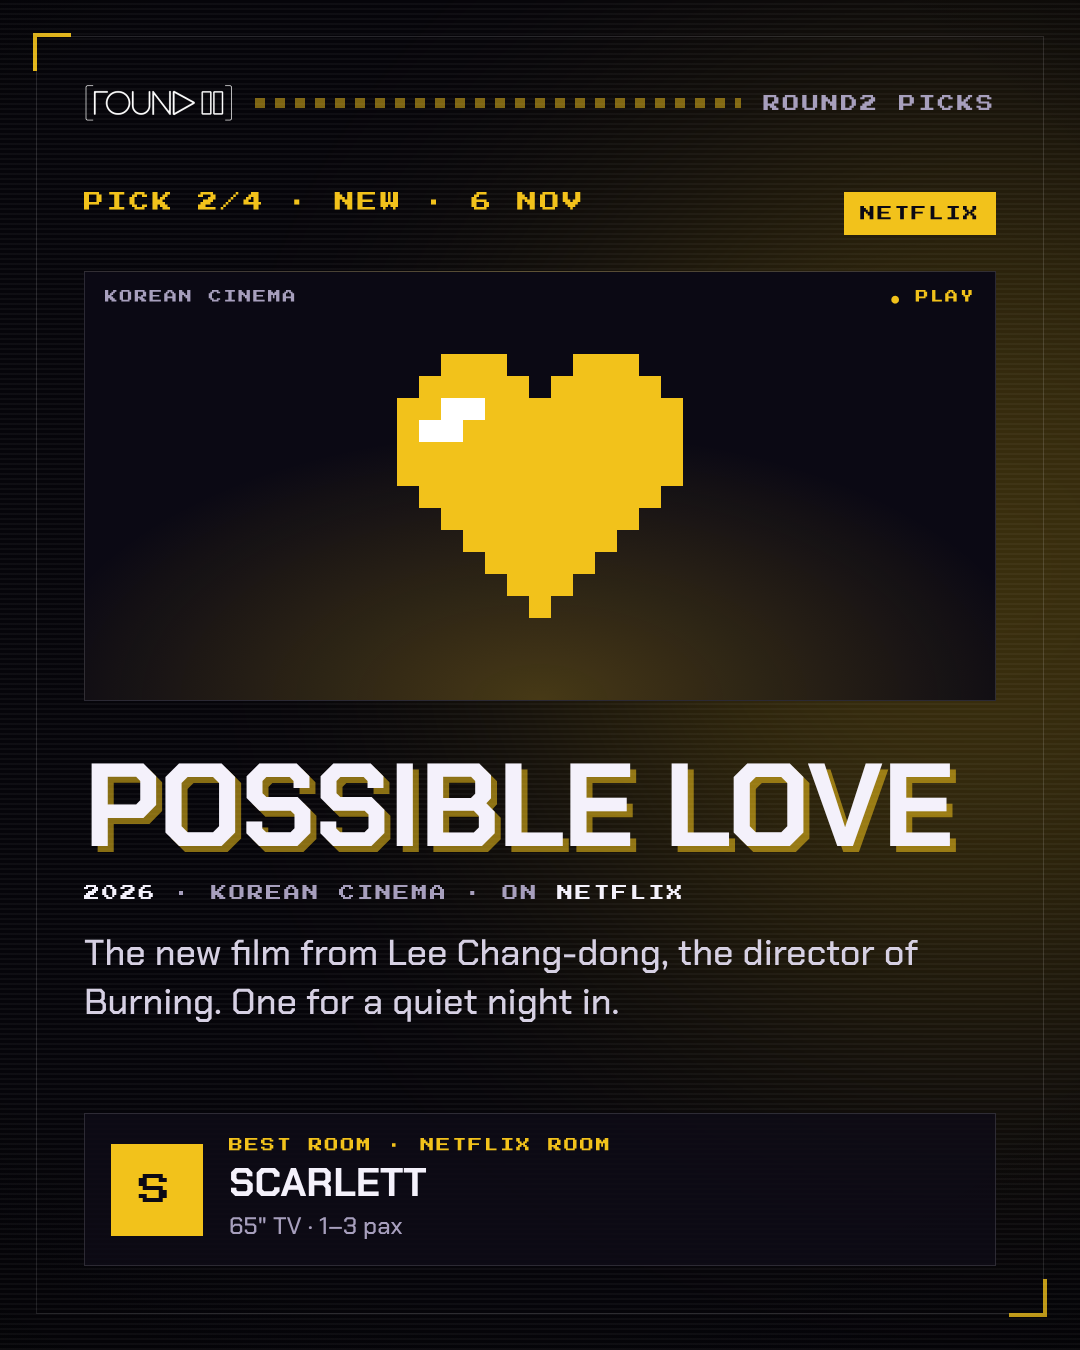
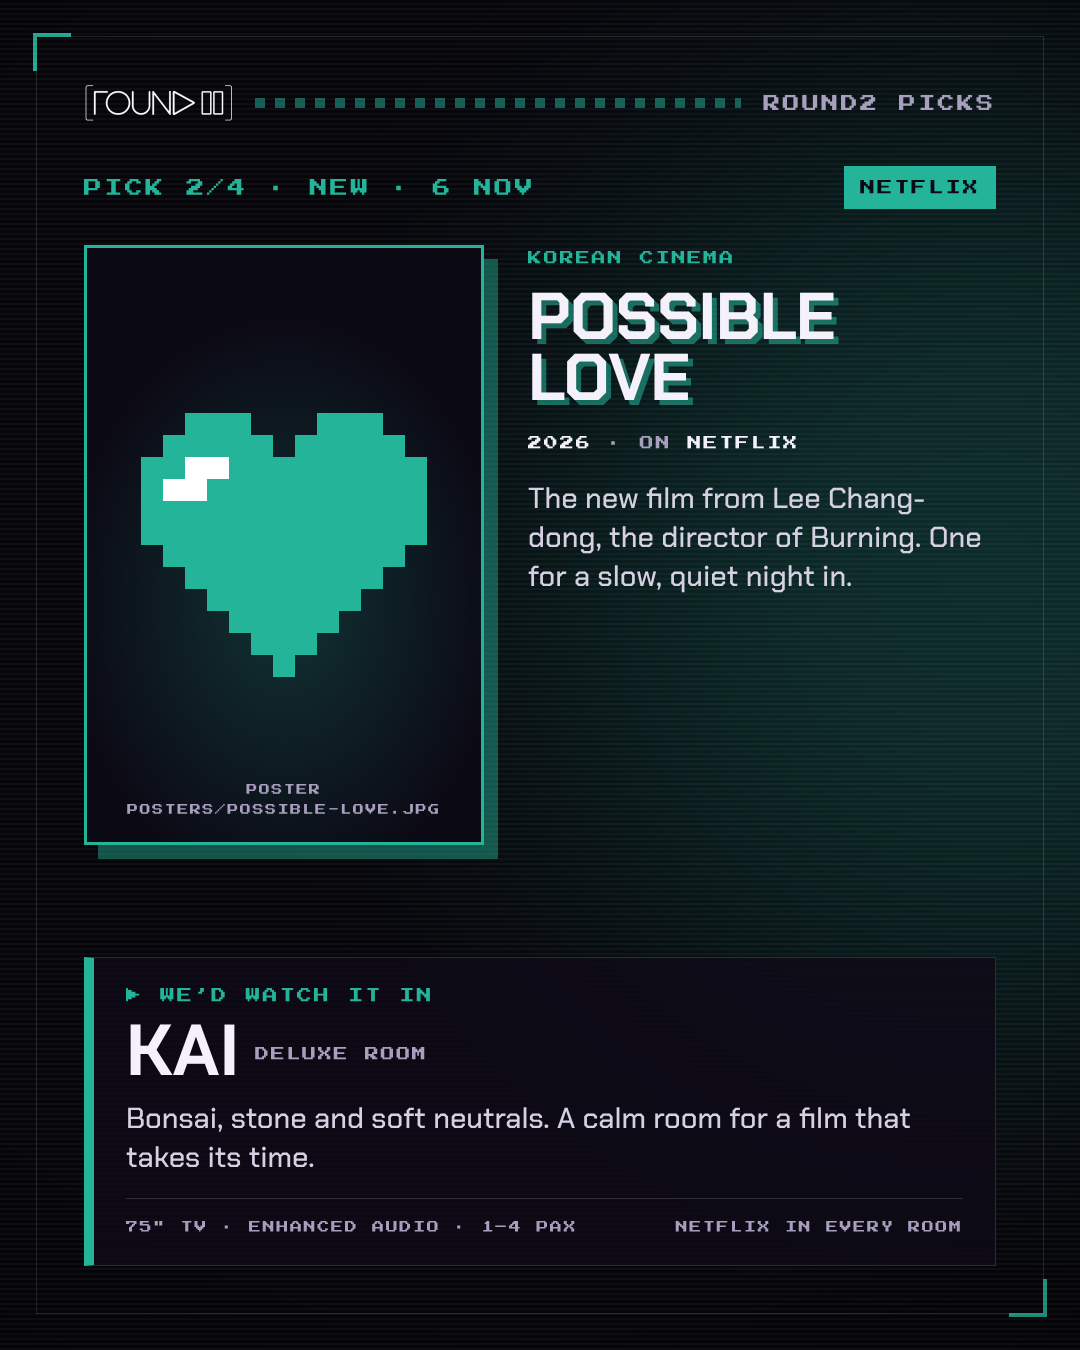
Round2 Picks: poster slots, 'We'd watch it in' room-vibe panel, rooms matched by vibe
Claude-Session: https://claude.ai/code/session_01PDkwSCLDYKchcH27nujJvW

diff --git a/marketing/ig-movie-picks/index.html b/marketing/ig-movie-picks/index.html
@@ -64,26 +64,31 @@ body.render .blink{animation:none}
 .cv-foot{margin-top:30px;display:flex;justify-content:space-between;font-size:15px;color:var(--mute)}
 
 /* ---------- pick ---------- */
-.pk-head{margin-top:70px;display:flex;justify-content:space-between;align-items:flex-start}
-.pk-num{font-size:20px;color:var(--c)}
+.bgimg{position:absolute;inset:-60px;width:calc(100% + 120px);height:calc(100% + 120px);object-fit:cover;filter:blur(40px) saturate(1.2);opacity:.28;z-index:0}
+.pk-head{margin-top:44px;display:flex;justify-content:space-between;align-items:center}
+.pk-num{font-size:18px;color:var(--c)}
 .badge{font-size:15px;padding:14px 16px;background:var(--c);color:var(--cink)}
-.screen{position:relative;margin-top:36px;height:430px;border:1px solid var(--line);
-  background:radial-gradient(80% 90% at 50% 100%,color-mix(in srgb,var(--c) 26%,transparent),transparent 70%),#0b0914;
+.hero{margin-top:36px;display:flex;gap:44px;align-items:flex-start}
+.poster{position:relative;flex:none;width:400px;height:600px;border:3px solid var(--c);
+  box-shadow:14px 14px 0 color-mix(in srgb,var(--c) 45%,transparent);
+  background:radial-gradient(80% 70% at 50% 60%,color-mix(in srgb,var(--c) 24%,transparent),transparent 70%),#0b0914;
   display:flex;align-items:center;justify-content:center;overflow:hidden}
-.screen .sprite{display:grid;gap:0;image-rendering:pixelated}
-.screen .sprite i{display:block;width:22px;height:22px}
-.screen .tag{position:absolute;left:20px;top:18px;font-size:13px;color:var(--mute)}
-.screen .rec{position:absolute;right:20px;top:18px;font-size:13px;color:var(--c)}
-.pk-title{margin:52px 0 0;font-weight:700;font-size:118px;line-height:.9;text-transform:uppercase;letter-spacing:-.01em;
-  text-shadow:6px 6px 0 color-mix(in srgb,var(--c) 55%,transparent)}
-.pk-meta{margin-top:26px;font-size:16px;color:var(--mute);display:flex;gap:18px;flex-wrap:wrap}
+.poster img{position:absolute;inset:0;width:100%;height:100%;object-fit:cover;z-index:2}
+.poster .ph{position:absolute;left:0;right:0;bottom:22px;text-align:center;font-size:11px;color:var(--mute);line-height:1.8}
+.sprite{display:grid;gap:0}
+.side{flex:1;min-width:0;padding-top:6px}
+.genre{font-size:14px;color:var(--c)}
+.pk-title{margin:22px 0 0;font-weight:700;font-size:var(--ts,88px);line-height:.92;text-transform:uppercase;letter-spacing:-.01em;
+  text-shadow:5px 5px 0 color-mix(in srgb,var(--c) 55%,transparent);overflow-wrap:anywhere}
+.pk-meta{margin-top:22px;font-size:14px;color:var(--mute);line-height:1.9}
 .pk-meta b{color:var(--ink);font-weight:400}
-.pk-why{margin-top:28px;font-size:36px;line-height:1.35;color:var(--soft);max-width:880px}
-.room{margin-top:auto;display:flex;align-items:center;gap:26px;padding:24px 26px;border:1px solid var(--line);background:rgba(14,11,23,.8)}
-.room .chip{width:92px;height:92px;flex:none;background:var(--c);color:var(--cink);display:flex;align-items:center;justify-content:center;font-size:32px}
-.room .l{font-size:14px;color:var(--c)}
-.room .nm{margin-top:10px;font-weight:700;font-size:40px;text-transform:uppercase;line-height:1}
-.room .sp{margin-top:8px;font-size:24px;color:var(--mute)}
+.pk-why{margin-top:22px;font-size:29px;line-height:1.35;color:var(--soft)}
+.room{margin-top:auto;position:relative;padding:30px 32px 28px;border:1px solid var(--line);border-left:10px solid var(--c);background:rgba(14,11,23,.86)}
+.room .l{font-size:15px;color:var(--c)}
+.room .nm{margin-top:14px;font-weight:700;font-size:72px;text-transform:uppercase;line-height:.95}
+.room .nm small{font-family:'Press Start 2P',monospace;font-size:14px;letter-spacing:.12em;font-weight:400;color:var(--mute);margin-left:16px;vertical-align:14px}
+.room .vb{margin-top:14px;font-size:29px;line-height:1.35;color:var(--soft)}
+.room .ft{margin-top:20px;padding-top:18px;border-top:1px solid var(--line);display:flex;justify-content:space-between;gap:20px;font-size:12px;color:var(--mute);line-height:1.7}
 
 /* ---------- end ---------- */
 .en-k{margin-top:120px;font-size:24px;color:var(--accent)}
@@ -106,19 +111,25 @@ body.render .blink{animation:none}
 const ISSUE = {
   no: '01',
   dates: '6–19 Nov',
+  // poster: drop the official poster (portrait, ~2:3) into posters/ with this file name. Missing → 8-bit placeholder.
+  // vibe:   why this room suits this film. It's a suggestion – the footer reminds guests it plays in other rooms too.
   picks: [
     { title: 'Heartland', service: 'Netflix', when: 'New · 13 Nov', genre: 'Thriller', year: '2026',
       why: 'A Netflix original thriller led by Jessica Chastain. Lights off, phones face down.',
-      room: 'Vale', sprite: 'house' },
+      room: 'Scarlett', poster: 'posters/heartland.jpg', sprite: 'house',
+      vibe: 'Dark, moody and lit only by starlight. The perfect room to watch a thriller through your fingers.' },
     { title: 'Possible Love', service: 'Netflix', when: 'New · 6 Nov', genre: 'Korean cinema', year: '2026',
-      why: 'The new film from Lee Chang-dong, the director of Burning. One for a quiet night in.',
-      room: 'Scarlett', sprite: 'heart' },
+      why: 'The new film from Lee Chang-dong, the director of Burning. One for a slow, quiet night in.',
+      room: 'Kai', poster: 'posters/possible-love.jpg', sprite: 'heart',
+      vibe: 'Bonsai, stone and soft neutrals. A calm room for a film that takes its time.' },
     { title: 'Madden', service: 'Prime Video', when: 'New · 18 Nov', genre: 'Sports biopic', year: '2026',
       why: 'Nicolas Cage plays football legend John Madden. Bring the squad and pick sides.',
-      room: 'Kai', sprite: 'ball' },
+      room: 'Maximillion', poster: 'posters/madden.jpg', sprite: 'ball',
+      vibe: 'Our biggest screen, home theatre sound and a racing sim for half-time. Built for game day.' },
     { title: 'Dune', service: 'HBO Max', when: 'Streaming now', genre: 'Sci-fi epic', year: '2021',
-      why: 'Villeneuve’s desert epic was made for a huge screen and a lot of bass. We have both.',
-      room: 'Maximillion', sprite: 'dune' },
+      why: 'Villeneuve’s desert epic was made for a big screen and a lot of bass.',
+      room: 'Atlas', poster: 'posters/dune.jpg', sprite: 'dune',
+      vibe: 'Warm whites and Greek-inspired details. A timeless room for an epic that feels ancient.' },
   ],
 };
 /* ======================================================================== */
@@ -133,7 +144,7 @@ const ROOMS = {
   Maximillion: { tier:'VIP room',     c:'#E0402F', ink:'#ffffff', spec:'85" TV · home theatre audio · 1–6 pax' },
 };
 
-// 8-bit sprites drawn on our own (no posters or studio artwork). '.' = empty, letters = palette.
+// 8-bit placeholders shown until a poster file is added. '.' = empty, letters = palette.
 const SPRITES = {
   heart: { pal:{a:'C',b:'#ffffff'}, rows:[
     '..aaa...aaa..','.aaaaa.aaaaa.','aabbaaaaaaaaa','abbaaaaaaaaaa','aaaaaaaaaaaaa','aaaaaaaaaaaaa',
@@ -165,8 +176,8 @@ function sprite(name, color){
   }
   return `<div class="sprite" style="grid-template-columns:repeat(${w},${px}px)">${cells}</div>`;
 }
-const frame = (c, ink, inner, glowPos='left:-300px;top:-260px') =>
-  `<section class="slide" style="--c:${c};--cink:${ink}"><div class="glow" style="${glowPos}"></div>
+const frame = (c, ink, inner, glowPos='left:-300px;top:-260px', bg='') =>
+  `<section class="slide" style="--c:${c};--cink:${ink}">${bg}<div class="glow" style="${glowPos}"></div>
    <div class="frame"></div><div class="vign"></div><div class="scan"></div><div class="in">${inner}</div></section>`;
 const topBar = label => `<div class="top px"><img src="${LOGO}" alt="Round2"><div class="dash"></div><span>${esc(label)}</span></div>`;
 
@@ -177,22 +188,36 @@ function cover(){
   return frame('#F2C21B', '#0b0914', `${topBar('Issue ' + ISSUE.no)}
     <div class="cv-kicker px">Round2 Picks · ${esc(ISSUE.dates)}</div>
     <h1 class="cv-title">Now<span>Playing</span></h1>
-    <div class="cv-sub">${ISSUE.picks.length} films we’d queue up this fortnight — and the room to watch each one in.</div>
+    <div class="cv-sub">${ISSUE.picks.length} films we’d queue up this fortnight, each matched with the room that fits its vibe.</div>
     <div class="select"><div class="hd px"><span>Movie select</span><span class="blink">Swipe ▶</span></div>${rows}</div>
     <div class="cv-foot px"><span>Haji Lane · SG</span><span>round2.sg</span></div>`, 'right:-380px;top:-300px');
 }
 
 function pick(p, i){
   const r = ROOMS[p.room], n = ISSUE.picks.length;
+  const hbo = /hbo/i.test(p.service);
+  const note = hbo ? 'HBO Max in all Deluxe &amp; VIP rooms' : `${esc(p.service)} in every room`;
+  const ts = p.title.length > 11 ? 66 : p.title.length > 7 ? 78 : 96;
+  const img = p.poster ? `<img src="${esc(p.poster)}" alt="" onerror="this.remove()">` : '';
+  const bg  = p.poster ? `<img class="bgimg" src="${esc(p.poster)}" alt="" onerror="this.remove()">` : '';
   return frame(r.c, r.ink, `${topBar('Round2 Picks')}
     <div class="pk-head"><div class="pk-num px">Pick ${i+1}/${n} · ${esc(p.when)}</div><div class="badge px">${esc(p.service)}</div></div>
-    <div class="screen"><span class="tag px">${esc(p.genre)}</span><span class="rec px"><span class="blink">●</span> Play</span>${sprite(p.sprite, r.c)}</div>
-    <h2 class="pk-title">${esc(p.title)}</h2>
-    <div class="pk-meta px"><span><b>${esc(p.year)}</b></span><span>·</span><span>${esc(p.genre)}</span><span>·</span><span>on <b>${esc(p.service)}</b></span></div>
-    <div class="pk-why">${esc(p.why)}</div>
-    <div class="room"><div class="chip px">${esc(p.room[0])}</div><div>
-      <div class="l px">Best room · ${esc(r.tier)}</div><div class="nm">${esc(p.room)}</div><div class="sp">${esc(r.spec)}</div></div></div>`,
-    i % 2 ? 'right:-360px;top:120px' : 'left:-360px;top:120px');
+    <div class="hero">
+      <div class="poster">${sprite(p.sprite, r.c)}<div class="ph px">Poster<br>${esc(p.poster || '')}</div>${img}</div>
+      <div class="side">
+        <div class="genre px">${esc(p.genre)}</div>
+        <h2 class="pk-title" style="--ts:${ts}px">${esc(p.title)}</h2>
+        <div class="pk-meta px"><b>${esc(p.year)}</b> · on <b>${esc(p.service)}</b></div>
+        <div class="pk-why">${esc(p.why)}</div>
+      </div>
+    </div>
+    <div class="room">
+      <div class="l px">▶ We’d watch it in</div>
+      <div class="nm">${esc(p.room)}<small>${esc(r.tier)}</small></div>
+      <div class="vb">${esc(p.vibe)}</div>
+      <div class="ft px"><span>${esc(r.spec)}</span><span>${note}</span></div>
+    </div>`,
+    i % 2 ? 'right:-360px;top:120px' : 'left:-360px;top:120px', bg);
 }
 
 function end(){

diff --git a/marketing/ig-movie-picks/README.md b/marketing/ig-movie-picks/README.md
@@ -7,11 +7,15 @@ Marketing & design only. **Nothing here is used by the live site** – it lives 
 - Look: same tokens as www.round2.sg – background `#06050a`, text `#f4f1fb`/`#d6d0e3`/`#a79fbd`, accent `#F2C21B`,
   Press Start 2P (labels) + Chakra Petch (headings/body), game-menu wording (MOVIE SELECT, INSERT COIN, PRESS START).
 - Each pick takes the colour of the room we recommend for it (room colours copied from the site's room list).
-- No posters or studio art (copyright) – each pick gets an 8-bit sprite drawn in `SPRITES` (heart, house, ball, dune).
-  Add new ones there: rows of letters, `C` = the room colour.
+- Each pick slide has a poster slot. Put the poster (portrait, ~2:3, e.g. 800×1200) in `posters/` with the file name set
+  in `ISSUE` (`posters/heartland.jpg` …). It also becomes the blurred background. No file → an 8-bit placeholder
+  (`SPRITES`) shows, so the slide never breaks. Use official key art the studio/streamer releases for promotion.
+- Room panel = "We'd watch it in <room>" + `vibe` (why the room suits the film). The footer always says the service
+  plays in other rooms too, so it reads as a suggestion, not a restriction.
 
 ## New issue (every 2 weeks)
-1. Edit `ISSUE` at the top of the script in `index.html` (issue no., dates, 3–5 picks: title, service, when, genre, year, why, room, sprite).
+1. Edit `ISSUE` at the top of the script in `index.html` (issue no., dates, 3–5 picks: title, service, when, genre, year, why, room, vibe, poster, sprite),
+   and drop the posters into `posters/`.
 2. `python3 render.py` → PNGs in `out/`. Open `index.html` in a browser to preview.
 3. Check every title is actually on the **Singapore** Netflix / Prime Video / HBO Max apps that day (release lists online are US).
 
@@ -22,5 +26,5 @@ Marketing & design only. **Nothing here is used by the live site** – it lives 
 - Blurbs in our own words; no quotes from reviews.
 
 ## Issue 01 (6–19 Nov 2026)
-Heartland (Netflix, 13 Nov) → Vale · Possible Love (Netflix, 6 Nov) → Scarlett · Madden (Prime Video, 18 Nov) → Kai ·
-Dune (HBO Max) → Maximillion. Dates from US release lists – confirm in the SG apps before posting.
+Heartland (Netflix, 13 Nov) → Scarlett · Possible Love (Netflix, 6 Nov) → Kai · Madden (Prime Video, 18 Nov) → Maximillion ·
+Dune (HBO Max) → Atlas. Rooms matched by vibe (room descriptions from the live site). Posters not added yet. Dates from US release lists – confirm in the SG apps before posting.
